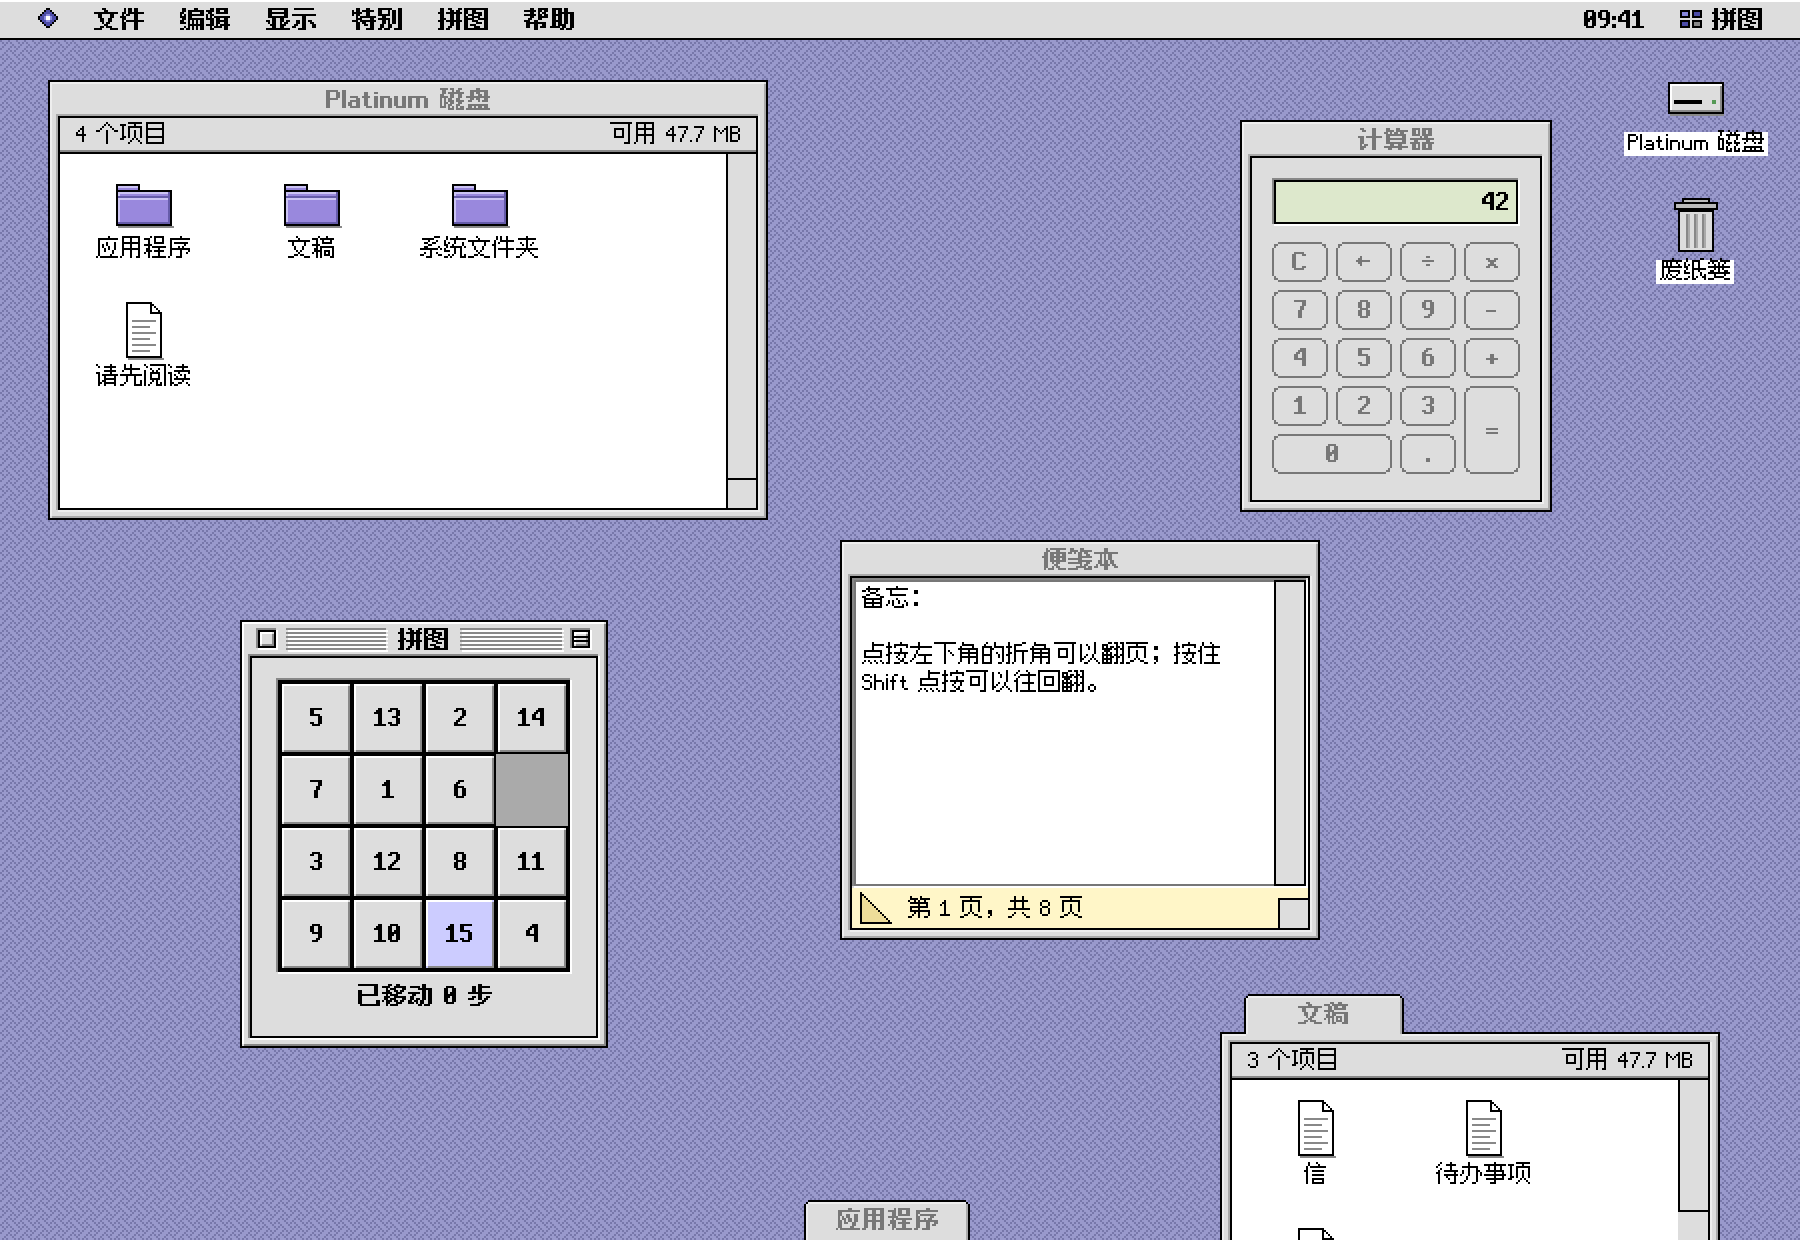
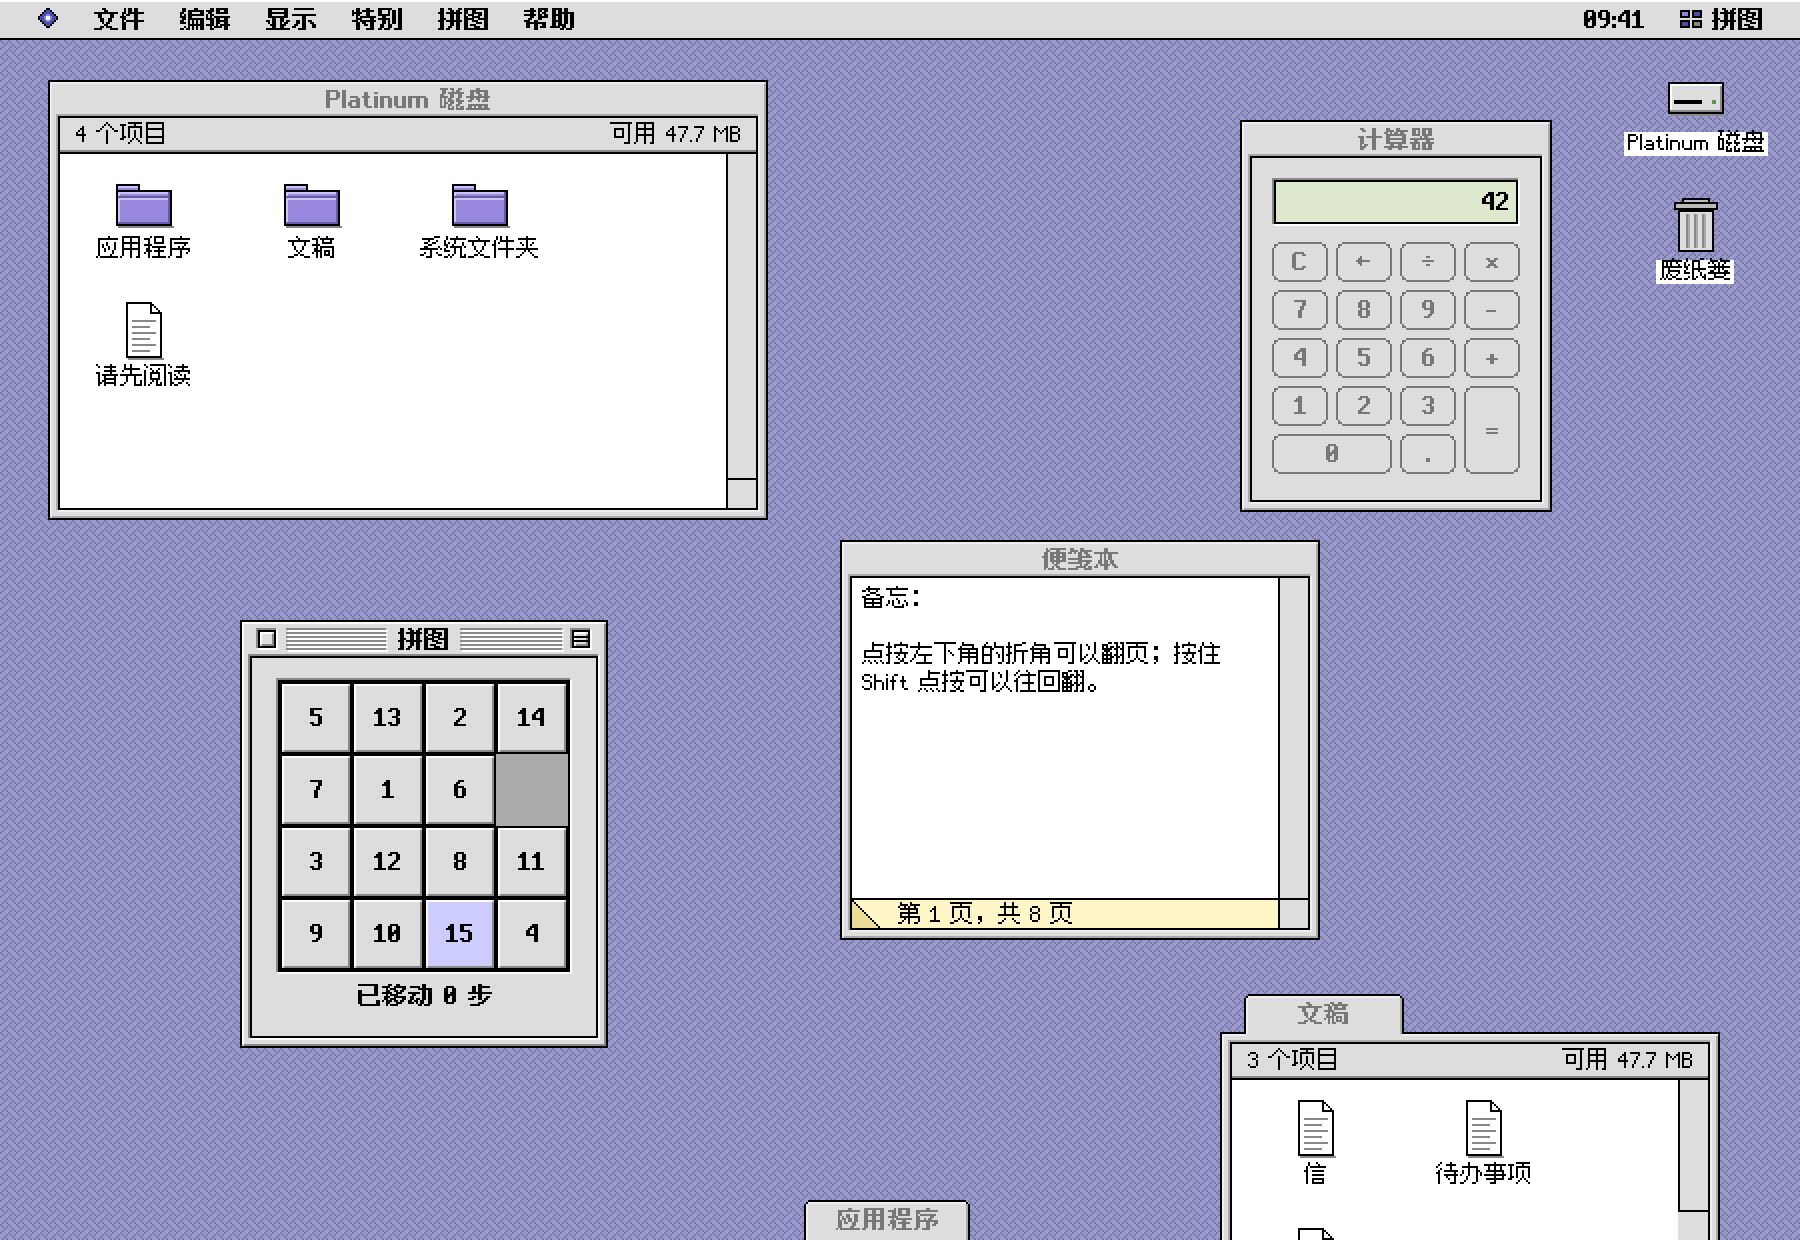
Lay the Ledger, Jotter and list view on their windows' lines

Changed region(s): [[0.4667, 0.4597, 0.7467, 0.7661]]

diff --git a/examples/desktop/apps.go b/examples/desktop/apps.go
@@ -58,30 +58,31 @@ var dogEar = []string{
 func jotterView(c *ui.Context, w *win) {
 	m := w.desk.say()
 	j := w.jot
-	paper := ui.RGB(0xFF, 0xF6, 0xC8)
 	ui.Column(c).Fill().AlignItems(ui.Stretch).Children(func() {
-		pt.TextArea(c.Key(fmt.Sprint("page", j.page)), &j.pages[j.page]).Label(m.Page()).Element().Grow(1).FillWidth()
-		ui.Row(c).Height(jotterFoot).AlignItems(ui.Stretch).Children(func() {
-			jotterFooter(c, w, paper)
-			// The window's resize corner under the paper's edge.
-			ui.Column(c).Width(pt.GrowBoxSize).Children(func() {
-				ui.Box(c).Height(jotterFoot - pt.GrowBoxSize).Background(paper)
-			})
-		})
+		// The page fills the window, its scroll bar over the window's line
+		// down to the foot, as a document's.
+		pt.TextArea(c.Key(fmt.Sprint("page", j.page)), &j.pages[j.page]).Label(m.Page()).Document(5, 0).Element().Grow(1).FillWidth()
+		jotterFoot(c, w)
 	})
 }
 
-// The height of the pad's foot, under its page.
-const jotterFoot = 20
-
-// jotterFooter builds the pad's foot: the corner that turns the page, and
-// which page it is.
-func jotterFooter(c *ui.Context, w *win, paper ui.Color) {
+// jotterFoot builds the pad's foot, as tall as the resize corner at its
+// right end, under a Black line: the corner that turns the page, folded
+// up in the window's corner, and which page it is.
+func jotterFoot(c *ui.Context, w *win) {
 	m := w.desk.say()
 	j := w.jot
 	th := pt.ThemeOf(c)
-	ui.Row(c).Grow(1).Padding(0, 8, 0, 4).Gap(8).AlignItems(ui.Center).Background(paper).Children(func() {
-		corner := ui.Box(c).Size(16, 16).Role(ui.RoleButton).Label(m.TurnPage()).Focusable().FocusRing(false)
+	foot := ui.Row(c).Height(pt.GrowBoxSize).Padding(1, 0, 0, 0).Gap(8).AlignItems(ui.Center)
+	foot.Draw(func(p *ui.Painter, r ui.Rect) {
+		pn := pt.NewPen(p, r)
+		pn.Rect(0, 0, pn.W, pn.H, ui.RGB(0xFF, 0xF6, 0xC8))
+		pn.HLine(0, 0, pn.W, pt.Black)
+	})
+	foot.Children(func() {
+		// The corner's edges on the window's lines and the foot's.
+		corner := ui.Box(c).Size(16, 16).AlignSelf(ui.Start).Margin(-1, 0, 0, -1).
+			Role(ui.RoleButton).Label(m.TurnPage()).Focusable().FocusRing(false)
 		if corner.Clicked() {
 			if corner.ClickModifiers()&ui.Shift != 0 {
 				j.turn(-1)
@@ -107,7 +108,7 @@ func jotterFooter(c *ui.Context, w *win, paper ui.Color) {
 				}
 			}
 		})
-		pt.TextIn(c, m.PageOf(j.page+1, len(j.pages)), pt.AppFont, pt.Black).Height(jotterFoot)
+		pt.TextIn(c, m.PageOf(j.page+1, len(j.pages)), pt.AppFont, pt.Black).Height(pt.GrowBoxSize - 1)
 	})
 }
 
@@ -382,13 +383,17 @@ func newLedgerWindow(d *desk) *win {
 		}
 	}
 	st.Cursor, st.Anchor = pt.Cell{Col: 1, Row: 6}, pt.Cell{Col: 1, Row: 6}
+	st.NoFocusRing = true // the window shows where typing goes
 	w := &win{app: appLedger, sheet: st}
 	w.frame = pt.WindowState{W: 360, H: 240}
 	w.content = func(c *ui.Context, w *win) {
 		ui.Column(c).Fill().AlignItems(ui.Stretch).Children(func() {
 			pt.FormulaBar(c, w.sheet)
-			// Above the resize corner, its focus ring too.
-			pt.Sheet(c, w.sheet, 99, 26).Element().Grow(1).FillWidth().Margin(0, 0, pt.GrowBoxSize+3, 0)
+			// Filling the window: its ring under the window's lines, its
+			// outline on them and on the resize corner's top edge.
+			ui.Row(c).Grow(1).Margin(0, -2, pt.GrowBoxSize-2, -2).Children(func() {
+				pt.Sheet(c, w.sheet, 99, 26).Element().Fill()
+			})
 		})
 	}
 	return w

diff --git a/window.go b/window.go
@@ -233,6 +233,13 @@ func Window(c *ui.Context, st *WindowState, title string, opts WindowOptions, fn
 		d.parentX, d.parentY = r.X-float32(st.X), r.Y-float32(st.Y)
 		DrawWindowFrame(NewPen(p, r), title, opts, st.Collapsed, pressed)
 	})
+	if !st.Collapsed && !opts.NoGrow {
+		// The resize corner again over the content, as classic apps drew it
+		// after their own: whatever the content draws there.
+		w.el.DrawOver(func(p *ui.Painter, r ui.Rect) {
+			drawWindowGrowBox(NewPen(p, r), opts)
+		})
+	}
 	if !st.Collapsed {
 		w.el.Children(func() {
 			inner := ui.Column(c).Clip()
@@ -529,8 +536,15 @@ func DrawWindowFrame(pn Pen, title string, opts WindowOptions, collapsed bool, p
 		}
 	})
 	if !collapsed && !opts.NoGrow {
-		DrawGrowBox(pn.Sub(w-side-GrowBoxSize, h-side-GrowBoxSize, GrowBoxSize, GrowBoxSize), active)
+		drawWindowGrowBox(pn, opts)
 	}
+}
+
+// drawWindowGrowBox draws the resize corner of a window filling pn, in the
+// bottom right of its content.
+func drawWindowGrowBox(pn Pen, opts WindowOptions) {
+	side := opts.side()
+	DrawGrowBox(pn.Sub(pn.W-side-GrowBoxSize, pn.H-side-GrowBoxSize, GrowBoxSize, GrowBoxSize), opts.Active)
 }
 
 // DrawTitleBox draws the close, zoom or collapse box of a title bar

diff --git a/examples/desktop/cabinet.go b/examples/desktop/cabinet.go
@@ -338,20 +338,25 @@ func (d *desk) cabinetTable(c *ui.Context, cb *cabinet) {
 		}
 		return sa < sb
 	}}, {Title: m.ColumnKind()}}
-	tw := pt.Table(c, cb.table, cols, len(items), func(r, col int) string {
-		it := items[r]
-		switch col {
-		case 0:
-			return it.name
-		case 1:
-			if it.kind == kindFolder {
-				return "—"
+	var tw *pt.TableWidget
+	// Filling the window: its ring under the window's lines and the
+	// header's, its outline on them and on the resize corner's top edge.
+	ui.Row(c).Grow(1).Margin(-2, -2, pt.GrowBoxSize-2, -2).Children(func() {
+		tw = pt.Table(c, cb.table, cols, len(items), func(r, col int) string {
+			it := items[r]
+			switch col {
+			case 0:
+				return it.name
+			case 1:
+				if it.kind == kindFolder {
+					return "—"
+				}
+				return humanSize(m, it.size())
 			}
-			return humanSize(m, it.size())
-		}
-		return it.kindName(m)
+			return it.kindName(m)
+		})
+		tw.Element().Fill().Label(cb.dir.name)
 	})
-	tw.Element().Grow(1).FillWidth().Margin(0, 0, pt.GrowBoxSize, 0).Label(cb.dir.name)
 	if tw.Changed() {
 		cb.sel = -1
 		for r := range cb.table.Selected {

diff --git a/sheet.go b/sheet.go
@@ -63,6 +63,9 @@ type SheetState struct {
 	// IsEditing.
 	Editing   string
 	IsEditing bool
+	// NoFocusRing draws no ring around the sheet while it has the keyboard
+	// focus, as for a sheet that fills its window.
+	NoFocusRing bool
 
 	top, left float64
 	rect      ui.Rect
@@ -460,7 +463,7 @@ func Sheet(c *ui.Context, st *SheetState, rows, cols int) *SheetWidget {
 			dp.Clip(1, 1, dp.W-2, SheetCellH, func() { DrawSheet(dp, st, top, left, rows, cols, focused, th.Accent) })
 			dp.Clip(1, 1, SheetRowHeadW, dp.H-2, func() { DrawSheet(dp, st, top, left, rows, cols, focused, th.Accent) })
 		}
-		if focused {
+		if focused && !st.NoFocusRing {
 			DrawFocusRing(pn, 0, th.Accent.Dark)
 		}
 	})

diff --git a/docs/spec.md b/docs/spec.md
@@ -328,7 +328,10 @@ The look has no hover state: nothing changes as the pointer passes over.
   Black line: Black edges on its top and left, three ridges (Gray7 with
   White) rising to the right. A scroll bar at the window's side lies over
   the content's Black line and the lines at its ends, so that its outline,
-  the window's line and the corner's edges are one line each.
+  the window's line and the corner's edges are one line each. The corner is
+  drawn again over the content, as classic apps drew it after their own, so
+  a view filling the window, its outline on the window's lines, reaches the
+  corner's top edge and leaves the corner whole.
 - **Inactive:** no stripes, no boxes, no ridges, title Gray8, rings softened
   to Gray1/Gray5.
 - Dragging the title bar moves the window; double-clicking it, where it has
@@ -527,7 +530,9 @@ The look has no hover state: nothing changes as the pointer passes over.
 
 ### 5.24 Sheet, formula bar, find and replace, ruler
 
-- Sheet: cells **72×18**, row numbers **32** wide, in the content frame.
+- Sheet: cells **72×18**, row numbers **32** wide, in the content frame;
+  a sheet filling its window lies on the window's lines, its scroll bars
+  down to the resize corner, with no focus ring.
   Headers in the App face on raised Gray2 (White/Gray7, Gray9 lines between
   them), the headers of the selected rows and columns Gray4. Gray3 lines
   between cells; numbers right-aligned **4** from the edge, text left. The
